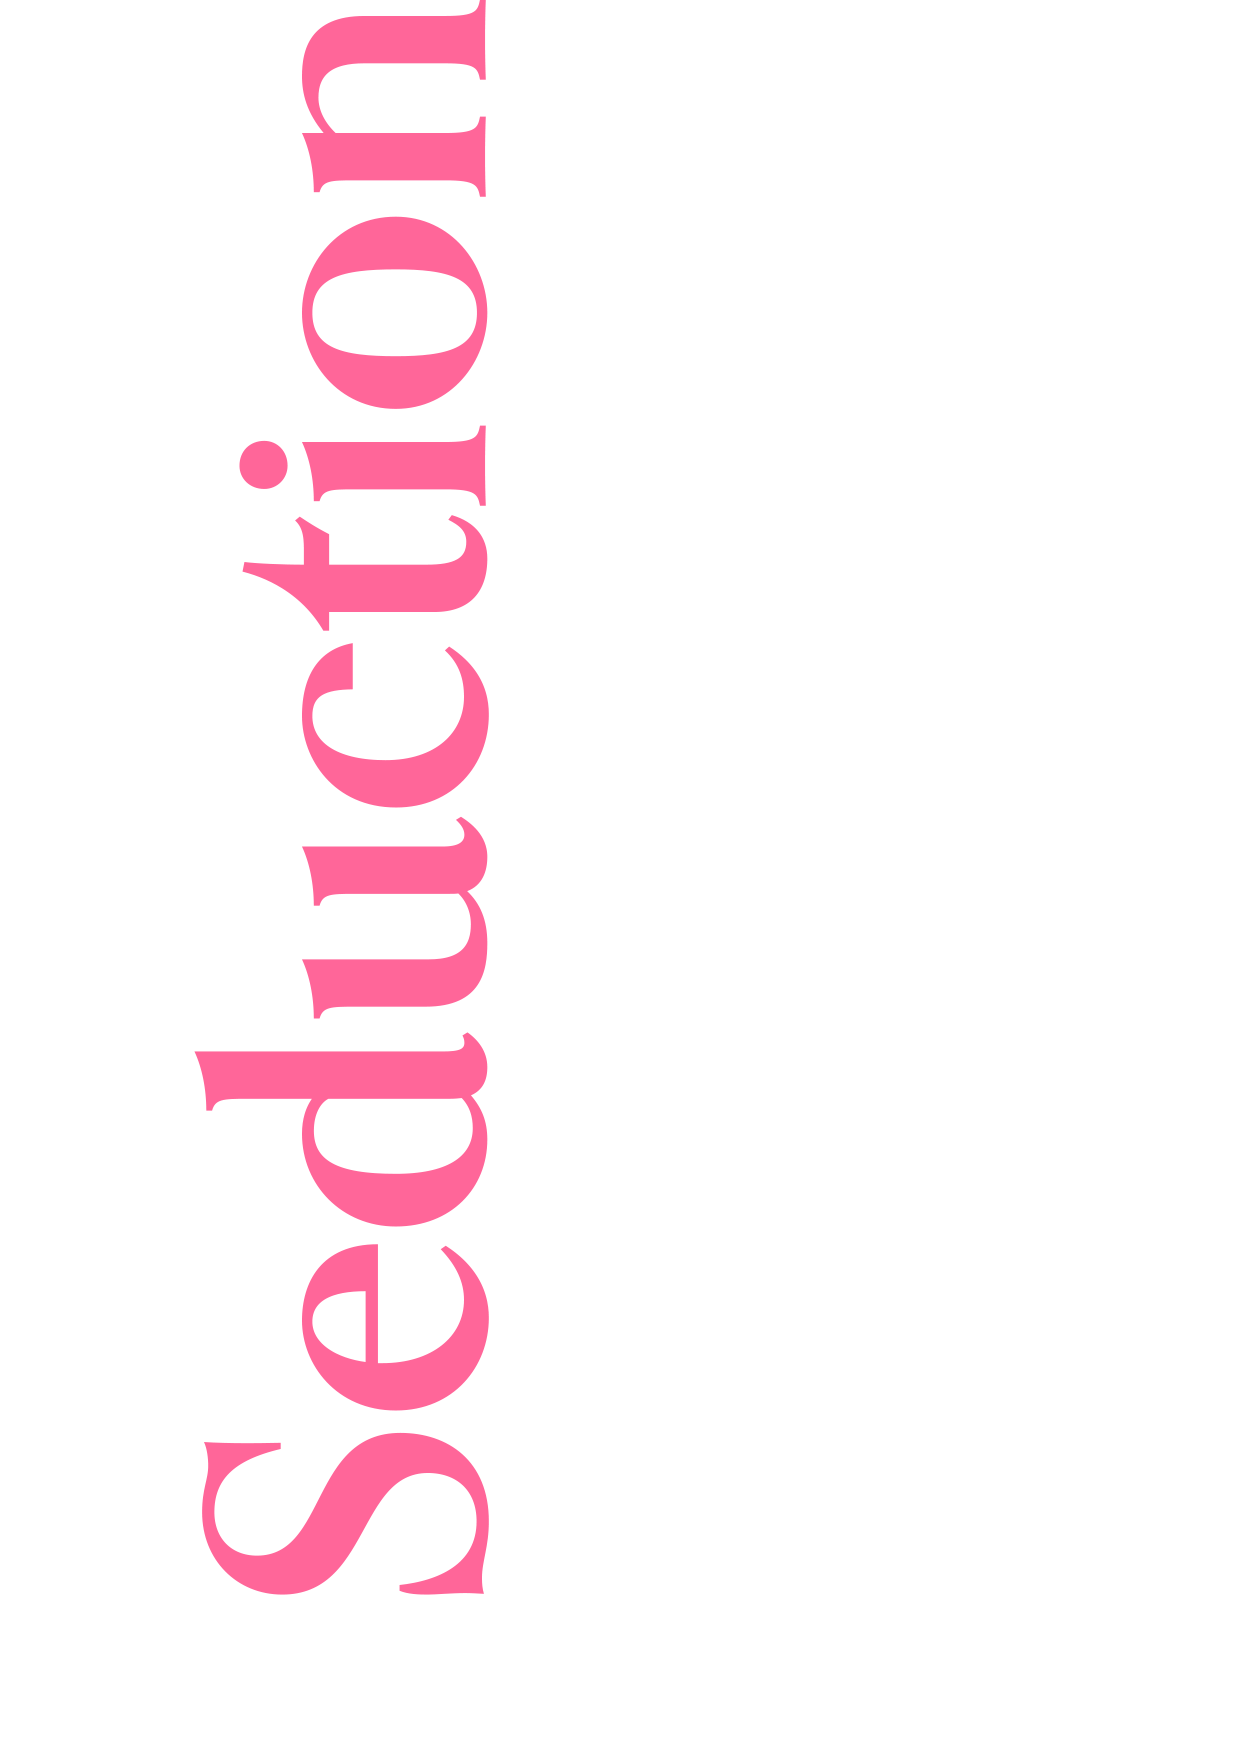
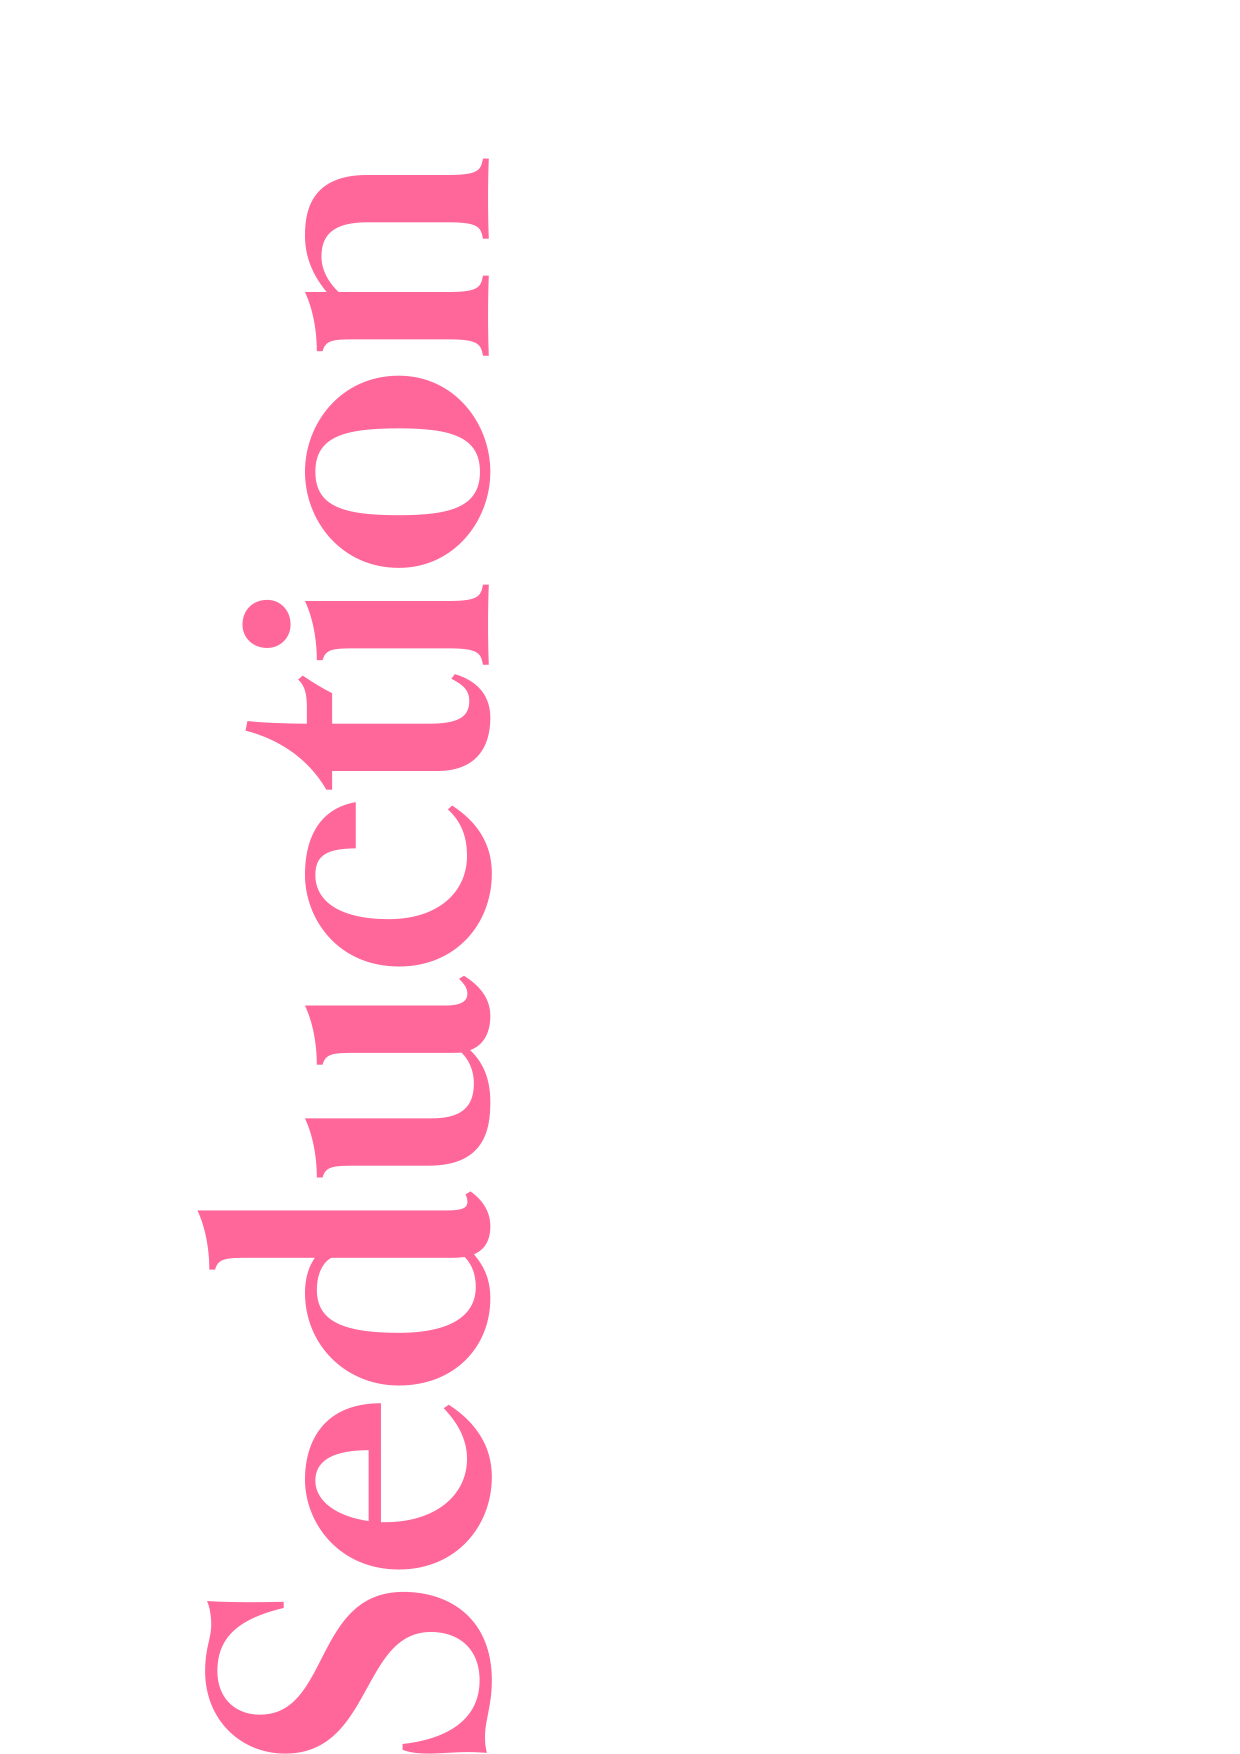
finished

Changed region(s): [[0.1532, 0.0, 0.3984, 1.0]]

diff --git a/final/main.js b/final/main.js
@@ -38,22 +38,40 @@ window.addEventListener("scroll", ()=>{
     }
 
     //FADE IN WOMAN
-    const womanFull = document.querySelector('#woman-full');
+    const woman = document.querySelectorAll('.woman');
+    const seduction = document.querySelector('#seduction');
+    const womanFull = woman[0];
     
-    var op = womanFull.getBoundingClientRect().top / womanFull.getBoundingClientRect().height;
-    womanFull.style.opacity = 1 - op;
-    
+    seduction.style.top = womanFull.getBoundingClientRect().top - seduction.getBoundingClientRect().height + 'px';
 
-    if(womanFull.getBoundingClientRect().top <= 0){
-        
-        womanFull.style.top = '0px';
-        womanFull.style.position = 'fixed';
-        
+    if(womanFull.style.opacity == 1){
+        woman[1].style.opacity = 1;
+    }else{
+        woman[1].style.opacity = 0;
     }
-    if(scrollPosition < 1.5*windowHeight){
-        womanFull.style.position = 'absolute';
-        womanFull.style.top = 1.5*windowHeight + 'px';
+    for (var j = 0; j < woman.length; j++){
+        var op = womanFull.getBoundingClientRect().top / womanFull.getBoundingClientRect().height;
+        woman[j].style.opacity = 1 - op;
+    
+        if(womanFull.getBoundingClientRect().top <= 0){
+        
+            woman[j].style.top = '0px';
+            woman[j].style.position = 'fixed';
+
+            seduction.style.opacity = 1;
+            seduction.style.top = scrollPosition - 1.5*windowHeight - seduction.getBoundingClientRect().height + 'px';
+            
+            
+        }
+        if(scrollPosition < 1.5*windowHeight){
+            woman[j].style.position = 'absolute';
+            woman[j].style.top = 1.5*windowHeight + 'px';
+            seduction.style.opacity = 0;
+        }
+    
     }
+    
+    
     
 
     //FADE OUT TRACKS

diff --git a/final/main.css b/final/main.css
@@ -1,3 +1,16 @@
+#bg{
+    height:150vh;
+    width:100vw;
+    z-index: 0;
+    position:absolute;
+}
+#bg2{
+    height:250vh;
+    width:100vw;
+    z-index: 0;
+    top:150vh;
+    position:absolute;
+}
 #tracks{
     position:fixed;
     height:100vh;
@@ -28,9 +41,8 @@
     opacity: 0;
 }
 body{
-    /* background-image: ; */
     display:flex;
-    height:300vh;
+    height:400vh;
     overflow: scroll;
     margin:0vh;
     flex-flow: column nowrap;
@@ -64,7 +76,7 @@ body{
     top:70vh;
 }
 #me{
-    left:41vw;
+    left:44vw;
     top:80vh;
 }
 .woman{
@@ -75,4 +87,13 @@ body{
     height: auto;
     max-width: 80vw;
     max-height: 100vh;
+}
+#seduction{
+    position:fixed;
+    left:0vw;
+    width: auto;
+    height: auto;
+    max-width: 80vw;
+    max-height: 100vh;
+    opacity:0;
 }

diff --git a/final/index.html b/final/index.html
@@ -6,6 +6,9 @@
     <link rel="stylesheet" href="./main.css">
 </head>
 <body>
+    <img id="bg" src="images/bg.png">
+    <img id="bg2" src="images/bg2.png">
+    
     <p class='reveals' id='walk'>Walk</p>
     <p class='reveals' id="all-over">all over</p>
     <p class='reveals' id="me">me.</p>
@@ -14,8 +17,9 @@
     <!-- <img id="tracks-mask-inverse" src="images/mask-b&w.jpg"> -->
     <img id="bodyImage" src="images/body1.png">
 
-    <img id="woman-full" src="images/woman-full.png">
-    
+    <img id="woman-full" class="woman" src="images/woman-bottom.png">
+    <img id="seduction" src="images/seduction.png">
+    <img id="woman-half" class="woman" src="images/woman-half.png">
     
     
 </body>
